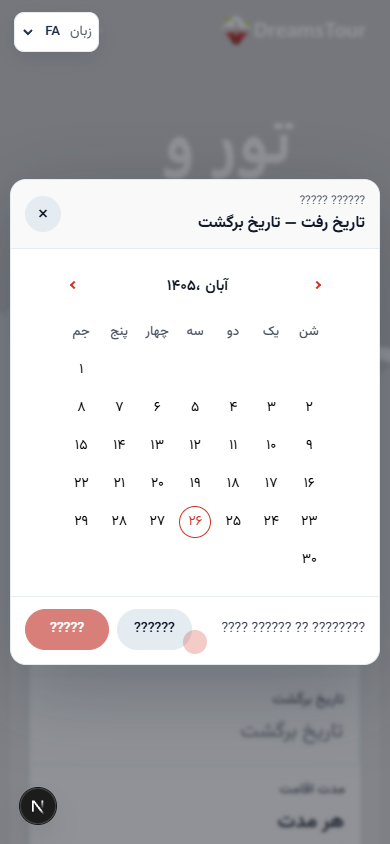
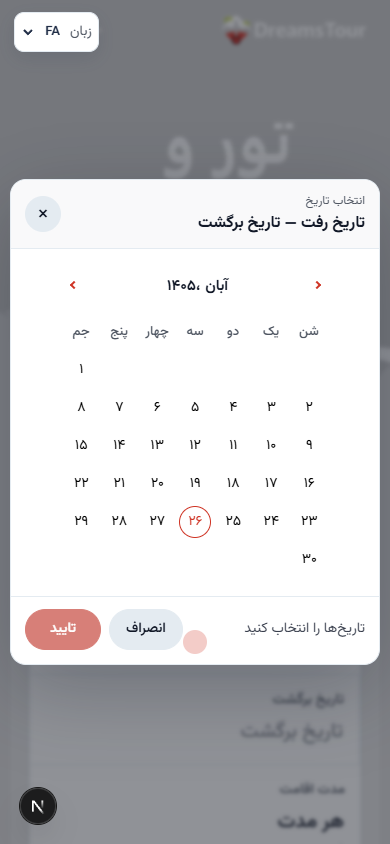
fix: repair localized date labels and keep dropdowns visible

Changed region(s): [[0.1231, 0.7085, 0.4923, 0.7701], [0.6154, 0.7393, 0.9231, 0.7701], [0.7692, 0.2156, 0.9231, 0.2464]]

diff --git a/frontend/src/components/booking-dropdown/bookingDropdown.tsx b/frontend/src/components/booking-dropdown/bookingDropdown.tsx
@@ -35,8 +35,10 @@ export default function BookingDropdown({
   const [subValue, setSubValue] = useState(defaultSubValue);
   const [query, setQuery] = useState("");
   const [open, setOpen] = useState(false);
+  const [dropUp, setDropUp] = useState(false);
   const [limit, setLimit] = useState(pageSize);
   const rootRef = useRef<HTMLDivElement>(null);
+  const inputRef = useRef<HTMLInputElement>(null);
   const inputId = useId();
   const menuId = useId();
 
@@ -75,6 +77,24 @@ export default function BookingDropdown({
     };
   }, [open]);
 
+  const openMenu = () => {
+    const rect = inputRef.current?.getBoundingClientRect();
+    if (rect) {
+      const spaceBelow = window.innerHeight - rect.bottom;
+      const spaceAbove = rect.top;
+      setDropUp(spaceBelow < 320 && spaceAbove > spaceBelow);
+    }
+    setOpen(true);
+  };
+
+  const toggleMenu = () => {
+    if (open) {
+      setOpen(false);
+    } else {
+      openMenu();
+    }
+  };
+
   const handleSelect = (loc: Location) => {
     setValue(loc.value);
     setSubValue(loc.subValue ?? "");
@@ -100,6 +120,7 @@ export default function BookingDropdown({
       </label>
 
       <input
+        ref={inputRef}
         id={inputId}
         type="text"
         className="form-control value-input"
@@ -110,11 +131,11 @@ export default function BookingDropdown({
         aria-expanded={open}
         aria-controls={menuId}
         aria-autocomplete="list"
-        onClick={() => setOpen((current) => !current)}
+        onClick={toggleMenu}
         onKeyDown={(event) => {
           if (event.key === "Enter" || event.key === "ArrowDown") {
             event.preventDefault();
-            setOpen(true);
+            openMenu();
           }
         }}
       />
@@ -122,7 +143,9 @@ export default function BookingDropdown({
 
       <div
         id={menuId}
-        className={`dropdown-menu dropdown-md p-0 ${open ? "show" : ""}`}
+        className={`dropdown-menu dropdown-md p-0 ${open ? "show" : ""} ${
+          dropUp ? "drop-up" : ""
+        }`}
         onClick={(event) => event.stopPropagation()}
       >
         <div className="input-search p-3 border-bottom">

diff --git a/frontend/tests/e2e/public-smoke.spec.ts b/frontend/tests/e2e/public-smoke.spec.ts
@@ -215,6 +215,11 @@ test.describe("public smoke", () => {
     await origin.locator("input.value-input").click();
     const menu = origin.locator(".dropdown-menu.show");
     await expect(menu).toBeVisible();
+    const menuBox = await menu.boundingBox();
+    const viewportHeight = await page.evaluate(() => window.innerHeight);
+    expect(menuBox).not.toBeNull();
+    expect(menuBox!.y).toBeGreaterThanOrEqual(0);
+    expect(menuBox!.y + menuBox!.height).toBeLessThanOrEqual(viewportHeight);
     expect(await menu.getByRole("option").count()).toBeGreaterThan(1);
 
     const optionText = (await menu.getByRole("option").nth(1).innerText())

diff --git a/frontend/src/style/scss/components/_hani-booking-dropdown.scss b/frontend/src/style/scss/components/_hani-booking-dropdown.scss
@@ -15,6 +15,11 @@
     z-index: 1050;
 }
 
+.booking-dropdown .dropdown-menu.drop-up {
+    top: auto;
+    bottom: calc(100% + 6px);
+}
+
 .booking-dropdown .dropdown-menu ul {
     max-height: 280px;
     overflow-y: auto;

diff --git a/docs/reports/gate-9.1-calendar-architecture.md b/docs/reports/gate-9.1-calendar-architecture.md
@@ -51,7 +51,8 @@ Jalali conversion exists only in the UI adapter.
   without page-level calendar code.
 - Dashboard `PredefinedDateRanges` box with calendar-aware month presets.
 - Home hero dropdowns are self-contained, searchable, and progressively
-  reveal more options on scroll.
+  reveal more options on scroll. They flip upward when there is not enough
+  space below the trigger.
 - Public tour cards, home content, blog/content lists and details, agency
   profile, checkout, user/agent dashboards, invoices, payments, refunds,
   notifications and reviews now use the shared formatter.
@@ -95,6 +96,7 @@ Jalali conversion exists only in the UI adapter.
 - `docs/reports/gate-9.1-home-mobile-fa.png`
 - `docs/reports/gate-9.1-home-jalali-modal-fa.png`
 - `docs/reports/gate-9.1-home-jalali-modal-mobile-fa.png`
+- `docs/reports/gate-9.1-home-search-dropdown-fa.png`
 
 ## Remaining
 

diff --git a/docs/plan/STATUS.md b/docs/plan/STATUS.md
@@ -574,3 +574,4 @@
 - Calendar architecture accepted and implemented in slice 1; see ADR-0032 and CALENDAR-ARCHITECTURE-PLAN.
 - Calendar phase 2 implemented: global MediatR DateOnly guard, locale-aware picker facade, public display migration, CI date-architecture gate, AGENTS rules.
 - Calendar modal + no-default dates: home date inputs start empty, centered Jalali modal, searchable/scrollable home dropdowns; Playwright 16 passed.
+- Calendar/dropdown QA fix: repaired corrupted FA/AR message strings, date modal text verified, dropdown flips upward and stays inside viewport.
